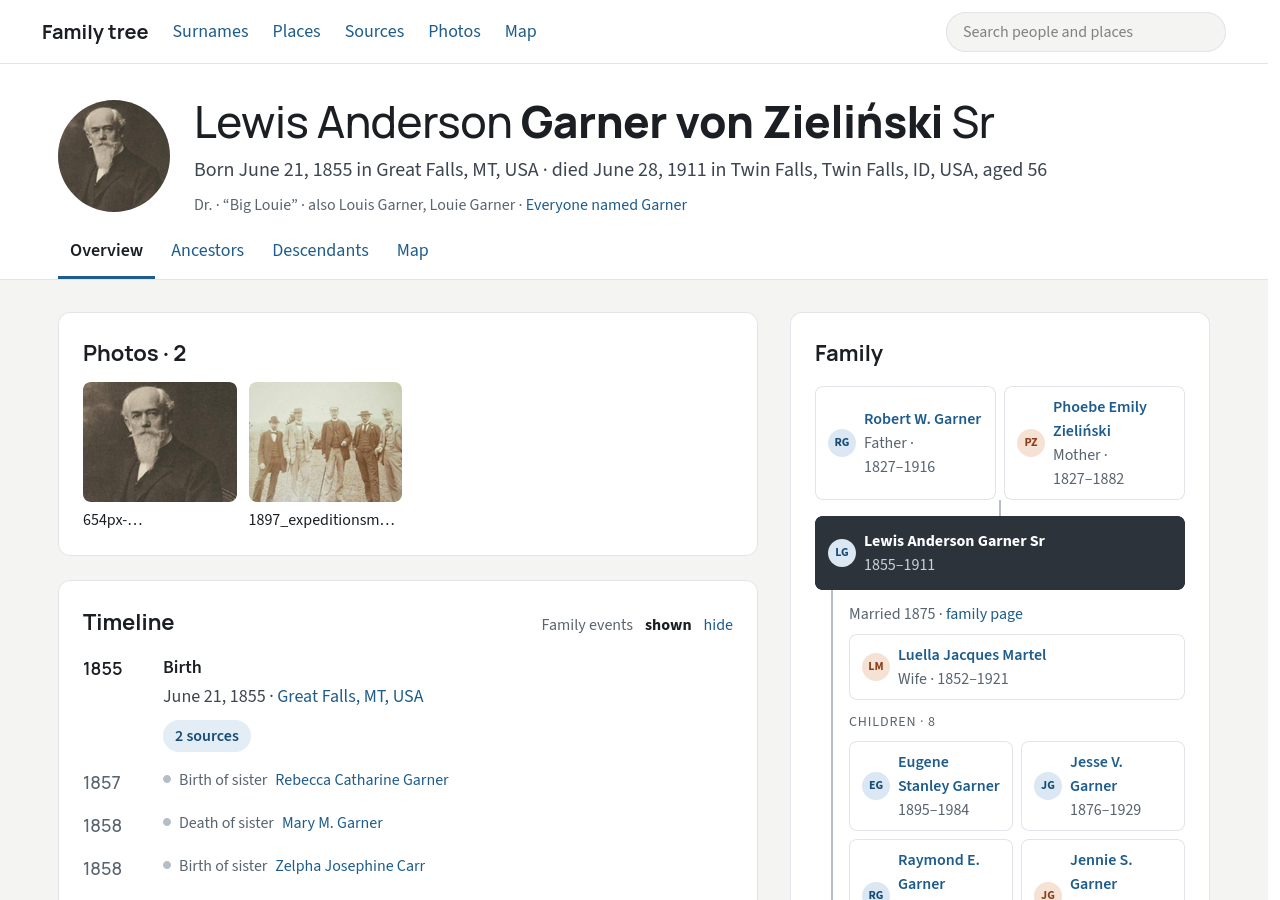
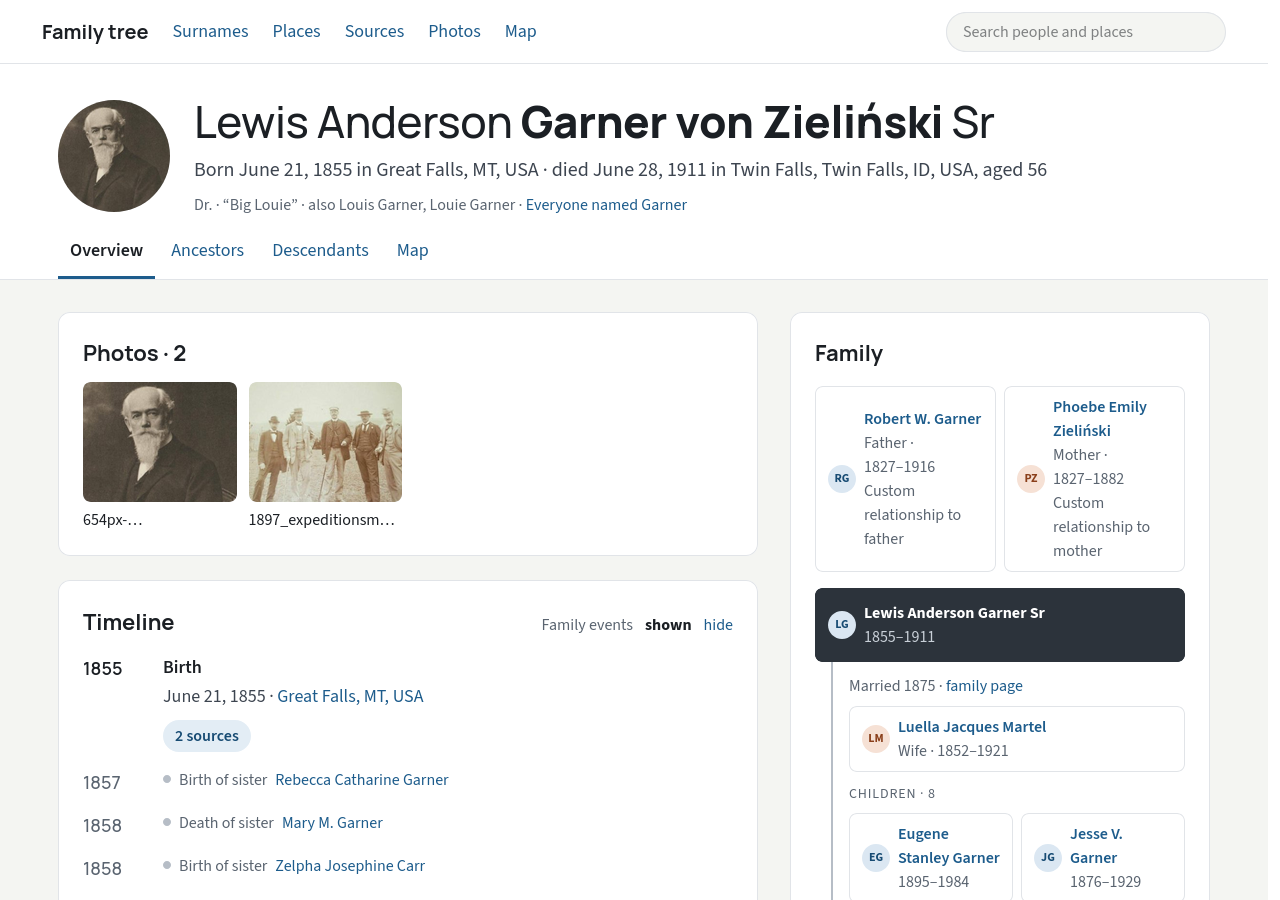
Refresh the README screenshots
The person, family and descendants pages changed with the parents not by
birth (#13) and without the line from the parents to the person (#14): the
example tree's I0044 has a custom relation to both parents, and relations
are now shown towards the parent whose page or chart it is. The screenshots
are taken as before; the notes now say where the photos come from and that
lazily loaded photo tiles must be requested first.

Changed region(s): [[0.625, 0.4667, 0.9375, 1.0]]

diff --git a/docs/NOTES.md b/docs/NOTES.md
@@ -99,7 +99,9 @@ Decisions, known differences from Gramps, and open items. Keep this file current
   people), person I0044, 1280 px wide, light theme, `--living=show --private=show`. Its photos are public domain on
   Wikimedia Commons except `Gunnlaugur_Larusson_-_Yawn.jpg` and `scanned_microfilm.png`, whose source is unclear;
   those two `<object>`s and their `<objref>`s are removed from the copy used for screenshots. Map tiles do not load
-  in headless Firefox (`firefox --headless --screenshot`), so there is no map screenshot.
+  in headless Firefox (`firefox --headless --screenshot`), so there is no map screenshot. The photos are in the
+  Gramps repository (`example/gramps` at the tag); serve them with `--media-dir`. Photo tiles load lazily, so request
+  the page and its thumbnails once before the screenshot, or a tile may be empty.
 
 ## Web design
 
